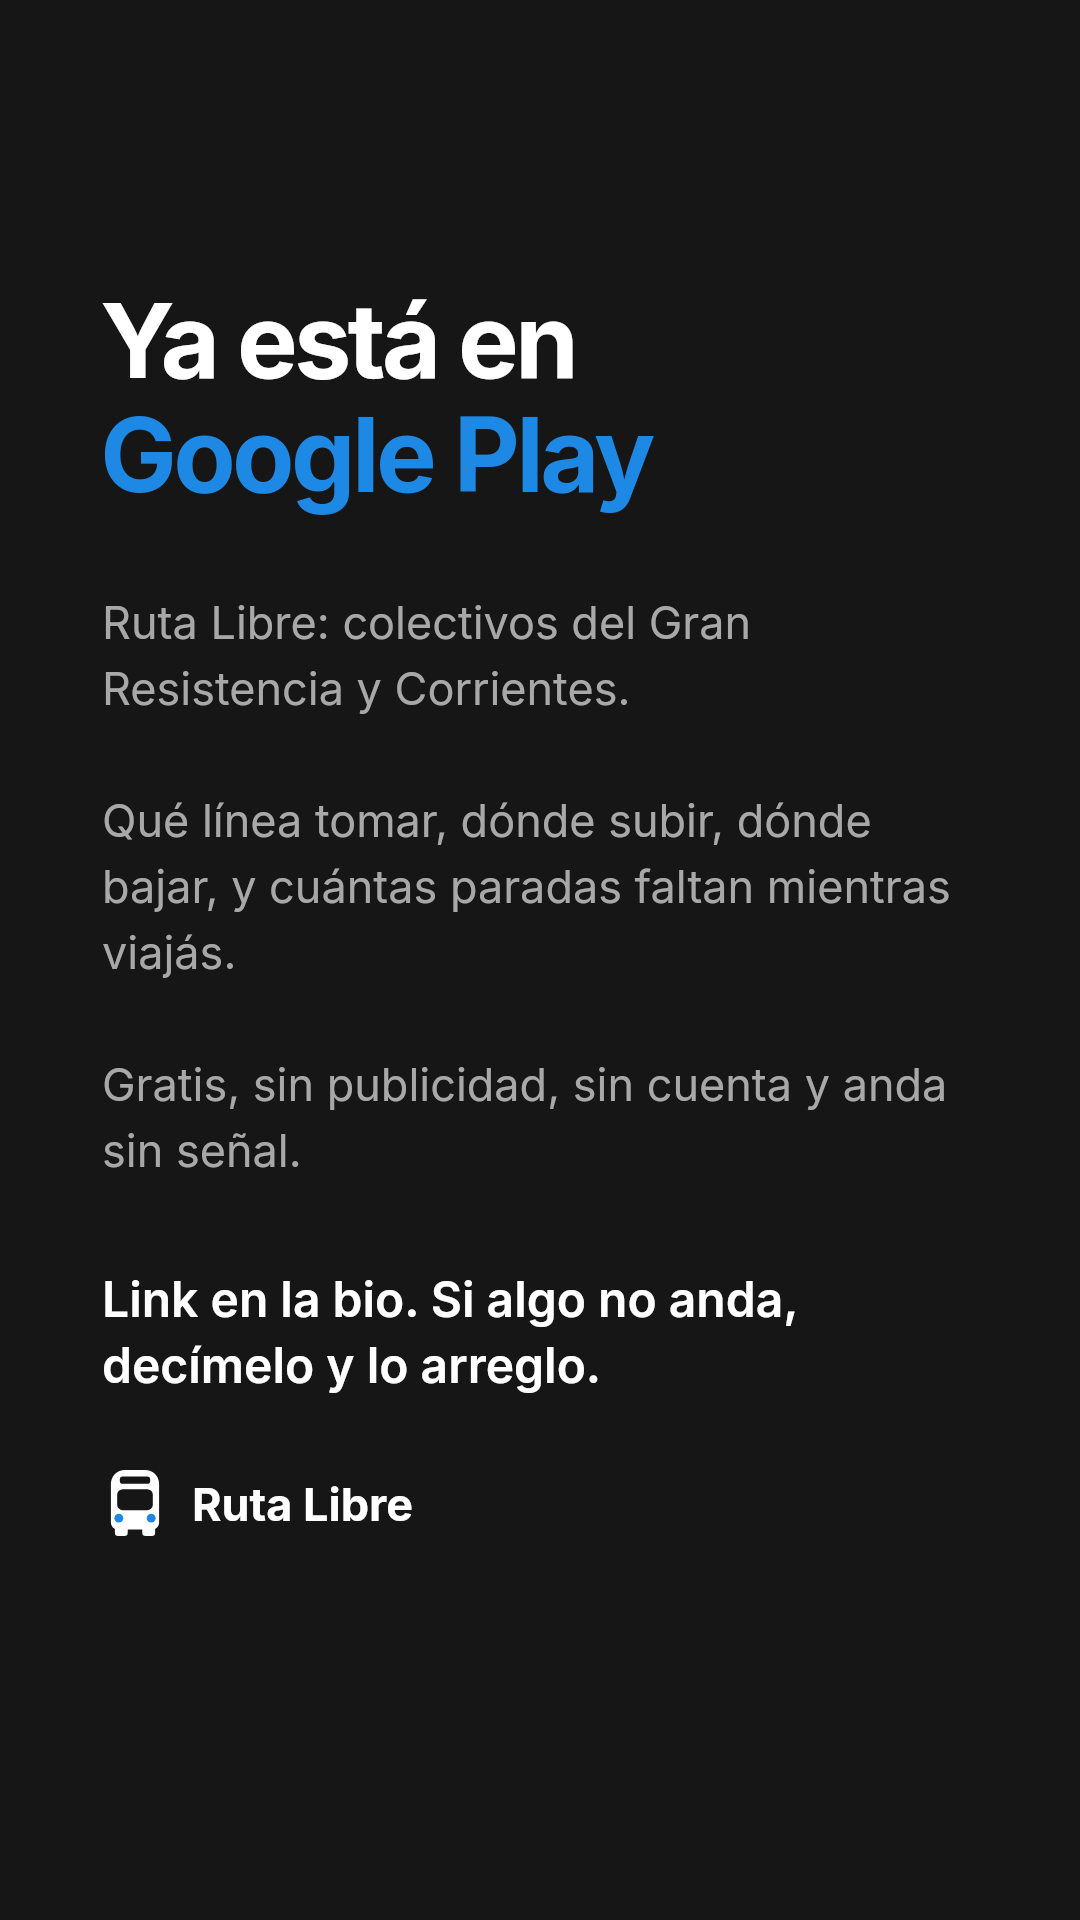
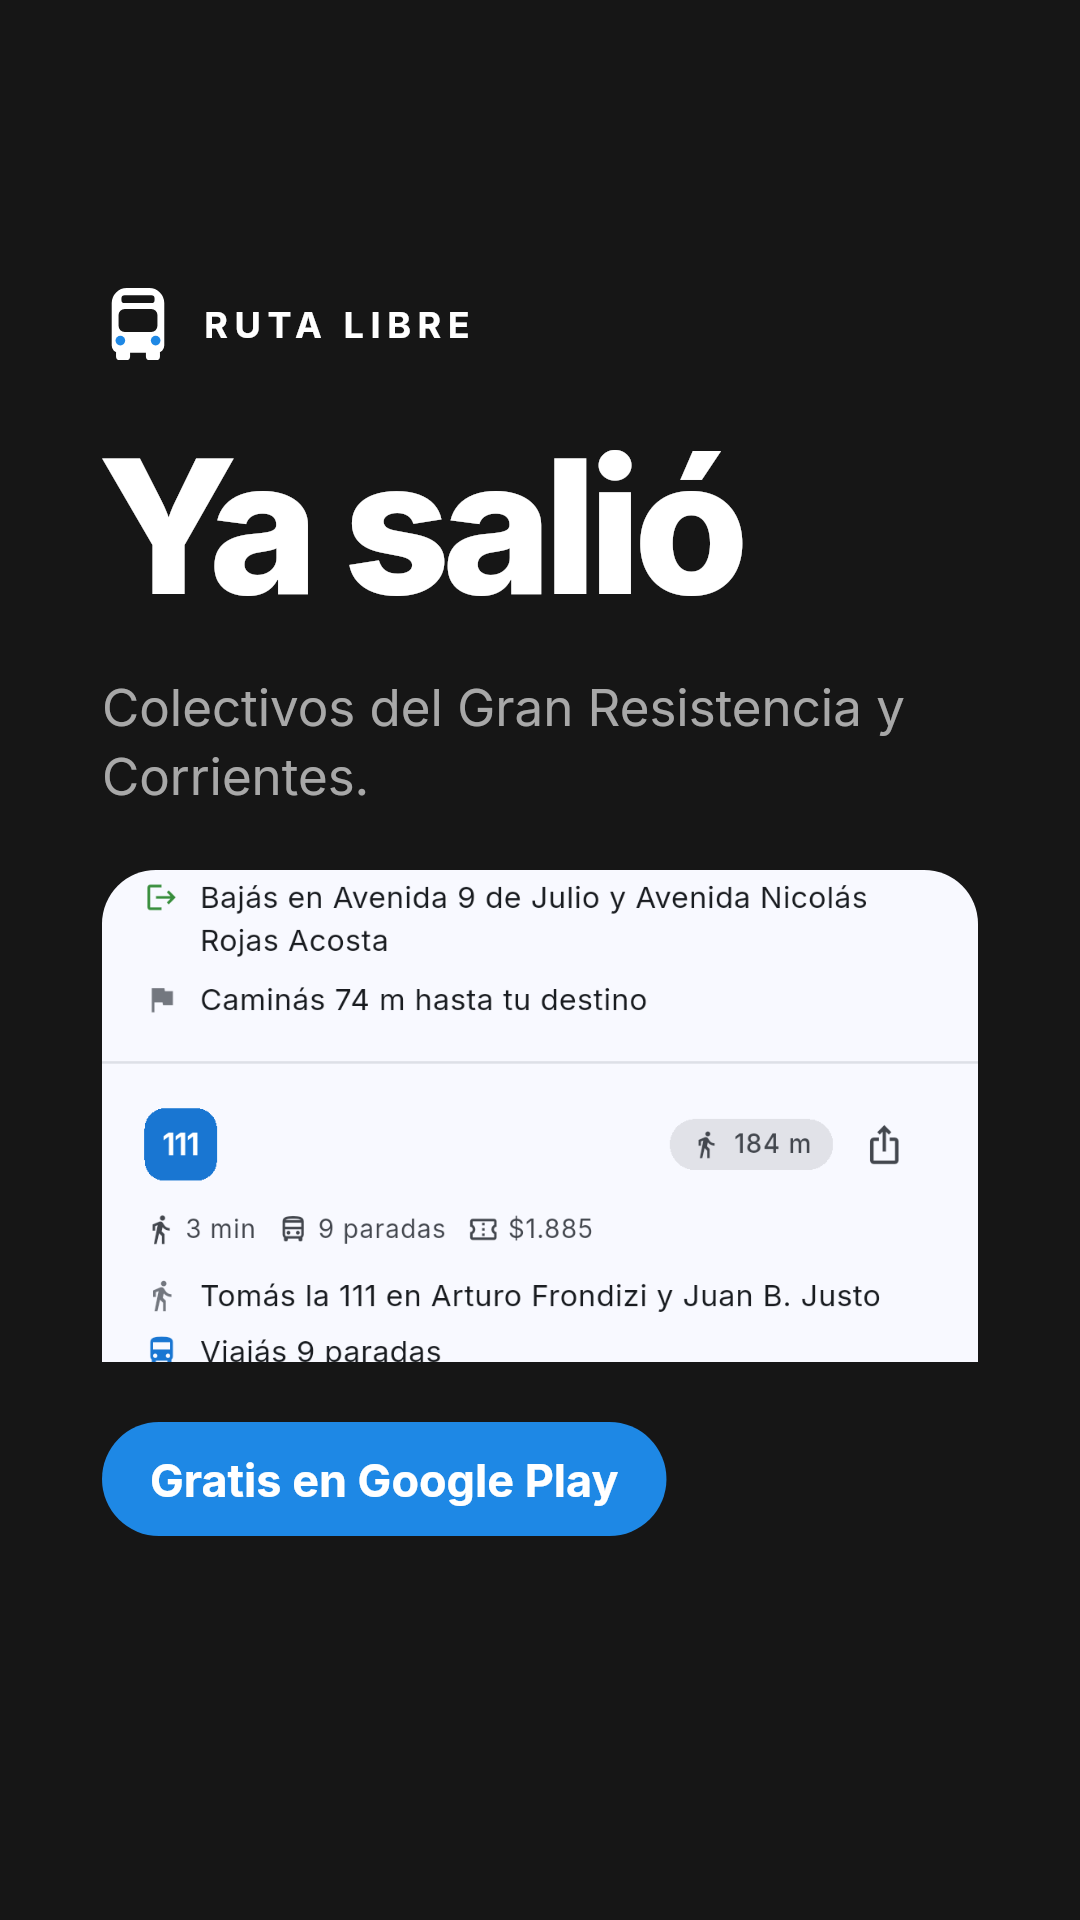
feat(marketing): la story de lanzamiento, con la app adentro
Las dos stories que había eran de la prueba cerrada —reclutar
verificadores y pedirles que no se desanoten— y las dos quedaron viejas
el día que la app salió. No había ninguna que dijera eso.

Archivo propio y no una entrada más en story_assets_test porque esta no
puede ser de texto. Las otras le hablaban a gente ya metida en el tema,
que se tomaba el trabajo de leer; esta le habla a alguien que pasa
stories con el pulgar y le da dos segundos.

La primera versión fue de texto y no funcionaba: cuatro párrafos grises.
Ahora el texto es el mínimo —la noticia, qué es, qué hacer— y el peso lo
lleva la captura. Encuadrada en la lista de viajes y no en el mapa: desde
arriba se veía lindo y mudo; corrida a 0.45 se lee "Tomás la 111 en
Arturo Frondizi · 9 paradas · $1.885", que es la app haciendo lo suyo.

Mismos dos guardarraíles que el resto del arte: no promete lo que la app
no hace, y sin emojis que Inter no dibuja.

Changed region(s): [[0.0917, 0.125, 0.9167, 0.8125]]

diff --git a/test/marketing/launch_story_test.dart b/test/marketing/launch_story_test.dart
@@ -1,0 +1,229 @@
+// La story del día que la app salió a Google Play.
+//
+//   REGEN_LANZAMIENTO=1 flutter test test/marketing/launch_story_test.dart
+//
+// Sale en `marketing/assets/stories/s3-ya-salio.png`, a 1080 × 1920.
+//
+// **Por qué tiene su propio archivo y no entra en `story_assets_test.dart`.**
+// Las otras dos stories son de texto: titular, cuerpo, pie. Esta no puede
+// serlo. Las de la prueba cerrada le hablaban a gente que YA estaba metida
+// en el tema y se tomaba el trabajo de leer; esta le habla a alguien que
+// está pasando stories con el pulgar y le da dos segundos.
+//
+// La primera versión fue de texto y no funcionaba: cuatro párrafos grises
+// que nadie lee. Acá el texto es el mínimo —la noticia, qué es, y qué
+// hacer— y el peso visual lo lleva la captura de la app andando. Si la
+// persona no lee una sola palabra, igual entendió que hay una app de
+// colectivos y que ya se puede bajar.
+import 'dart:async';
+import 'dart:io';
+import 'dart:typed_data';
+import 'dart:ui' as ui;
+
+import 'package:flutter/material.dart';
+import 'package:flutter/rendering.dart';
+import 'package:flutter/services.dart' show FontLoader;
+import 'package:flutter_test/flutter_test.dart';
+import 'package:rutalibre/app/theme/brand.dart';
+
+const _archivo = 'marketing/assets/stories/s3-ya-salio.png';
+
+/// El lienzo en píxeles lógicos. Con `pixelRatio: 3` da los 1080 × 1920.
+const _story = Size(360, 640);
+
+/// El aire que se come la interfaz de Instagram: arriba el nombre de la
+/// cuenta y la barra de progreso, abajo la caja de responder. Las mismas
+/// zonas seguras que las otras stories.
+const _zonaArriba = 96.0;
+const _zonaAbajo = 128.0;
+const _pad = 34.0;
+
+const _gris = Color(0xFFA8A8A8);
+
+const _titulo = 'Ya salió';
+const _bajada = 'Colectivos del Gran Resistencia y Corrientes.';
+const _pie = 'Gratis en Google Play';
+
+Future<void> _loadInter() async {
+  final bytes = File('assets/fonts/Inter-Variable.ttf').readAsBytesSync();
+  await (FontLoader(
+        'Inter',
+      )..addFont(Future.value(ByteData.sublistView(Uint8List.fromList(bytes)))))
+      .load();
+}
+
+Widget _plate() => ColoredBox(
+  color: Brand.black,
+  child: Padding(
+    padding: const EdgeInsets.fromLTRB(_pad, _zonaArriba, _pad, _zonaAbajo),
+    child: Column(
+      crossAxisAlignment: CrossAxisAlignment.start,
+      children: [
+        const Row(
+          children: [
+            BrandMark(size: 24),
+            SizedBox(width: 9),
+            Text(
+              'RUTA LIBRE',
+              style: TextStyle(
+                fontFamily: 'Inter',
+                fontSize: 12,
+                letterSpacing: 2.2,
+                fontWeight: FontWeight.w700,
+                color: Colors.white,
+              ),
+            ),
+          ],
+        ),
+        const SizedBox(height: 28),
+        const Text(
+          _titulo,
+          style: TextStyle(
+            fontFamily: 'Inter',
+            fontSize: 62,
+            height: 1.0,
+            letterSpacing: -2.6,
+            fontWeight: FontWeight.w800,
+            color: Colors.white,
+          ),
+        ),
+        const SizedBox(height: 14),
+        const Text(
+          _bajada,
+          style: TextStyle(
+            fontFamily: 'Inter',
+            fontSize: 17,
+            height: 1.35,
+            color: _gris,
+          ),
+        ),
+        const SizedBox(height: 20),
+        // La captura manda. Recortada arriba y pegada al borde inferior:
+        // un teléfono entero y centrado se vería chiquito y lejos; así
+        // entra grande y se lee qué es sin esfuerzo.
+        Expanded(
+          child: Container(
+            width: double.infinity,
+            decoration: BoxDecoration(
+              borderRadius: const BorderRadius.vertical(
+                top: Radius.circular(18),
+              ),
+              // `cover` para que llene el ancho —con `Align` quedaba del
+              // tamaño de una estampilla— y el encuadre corrido hacia
+              // abajo, que es donde está la lista de viajes.
+              //
+              // Encuadrada arriba se veía el mapa y nada más: lindo y
+              // mudo. Lo que hace entender la app en dos segundos es ver
+              // "6 líneas te llevan directo" con los recorridos listados,
+              // así que la story se encuadra ahí y no en el techo.
+              image: DecorationImage(
+                image: FileImage(File('marketing/capturas/03-como-llego.png')),
+                fit: BoxFit.cover,
+                alignment: const Alignment(0, 0.45),
+              ),
+            ),
+          ),
+        ),
+        const SizedBox(height: 20),
+        Row(
+          children: [
+            Container(
+              padding: const EdgeInsets.symmetric(horizontal: 16, vertical: 10),
+              decoration: BoxDecoration(
+                color: Brand.accent,
+                borderRadius: BorderRadius.circular(999),
+              ),
+              child: const Text(
+                _pie,
+                style: TextStyle(
+                  fontFamily: 'Inter',
+                  fontSize: 15,
+                  fontWeight: FontWeight.w700,
+                  color: Colors.white,
+                ),
+              ),
+            ),
+          ],
+        ),
+      ],
+    ),
+  ),
+);
+
+void main() {
+  test('la story no promete lo que la app no hace', () {
+    final copy = '$_titulo $_bajada $_pie'.toLowerCase();
+    for (final prohibida in ['tiempo real', 'en vivo', 'cuándo llega']) {
+      expect(
+        copy.contains(prohibida),
+        isFalse,
+        reason: '"$prohibida" es falso',
+      );
+    }
+  });
+
+  test('sin emojis: Inter no los dibuja y salen como cuadraditos', () {
+    for (final rune in '$_titulo$_bajada$_pie'.runes) {
+      expect(
+        rune < 0x2190 || (rune >= 0x2E80 && rune < 0x3000),
+        isTrue,
+        reason: 'U+${rune.toRadixString(16).toUpperCase()} no lo dibuja Inter',
+      );
+    }
+  });
+
+  testWidgets(
+    'regenera la story de lanzamiento',
+    skip: Platform.environment['REGEN_LANZAMIENTO'] != '1',
+    (tester) async {
+      await tester.runAsync(_loadInter);
+
+      // La captura hay que decodificarla a mano: `Image.file` resuelve
+      // asíncrono y en un test nadie bombea ese futuro, así que sin esto
+      // sale un hueco donde va el teléfono. No lo agarra ningún assert.
+      final captura = FileImage(File('marketing/capturas/03-como-llego.png'));
+      await tester.runAsync(() async {
+        final stream = captura.resolve(ImageConfiguration.empty);
+        final listo = Completer<void>();
+        late ImageStreamListener listener;
+        listener = ImageStreamListener((_, _) {
+          if (!listo.isCompleted) listo.complete();
+          stream.removeListener(listener);
+        });
+        stream.addListener(listener);
+        await listo.future;
+      });
+
+      tester.view
+        ..physicalSize = Size(_story.width + 40, _story.height + 40)
+        ..devicePixelRatio = 1;
+      addTearDown(tester.view.reset);
+
+      final key = GlobalKey();
+      await tester.pumpWidget(
+        Directionality(
+          textDirection: TextDirection.ltr,
+          child: Center(
+            child: RepaintBoundary(
+              key: key,
+              child: SizedBox.fromSize(size: _story, child: _plate()),
+            ),
+          ),
+        ),
+      );
+      await tester.pump();
+      await tester.pump(const Duration(milliseconds: 50));
+
+      final boundary =
+          key.currentContext!.findRenderObject()! as RenderRepaintBoundary;
+      await tester.runAsync(() async {
+        final image = await boundary.toImage(pixelRatio: 3);
+        expect(image.width, 1080);
+        expect(image.height, 1920);
+        final bytes = await image.toByteData(format: ui.ImageByteFormat.png);
+        image.dispose();
+        await File(_archivo).writeAsBytes(bytes!.buffer.asUint8List());
+      });
+    },
+  );
+}
